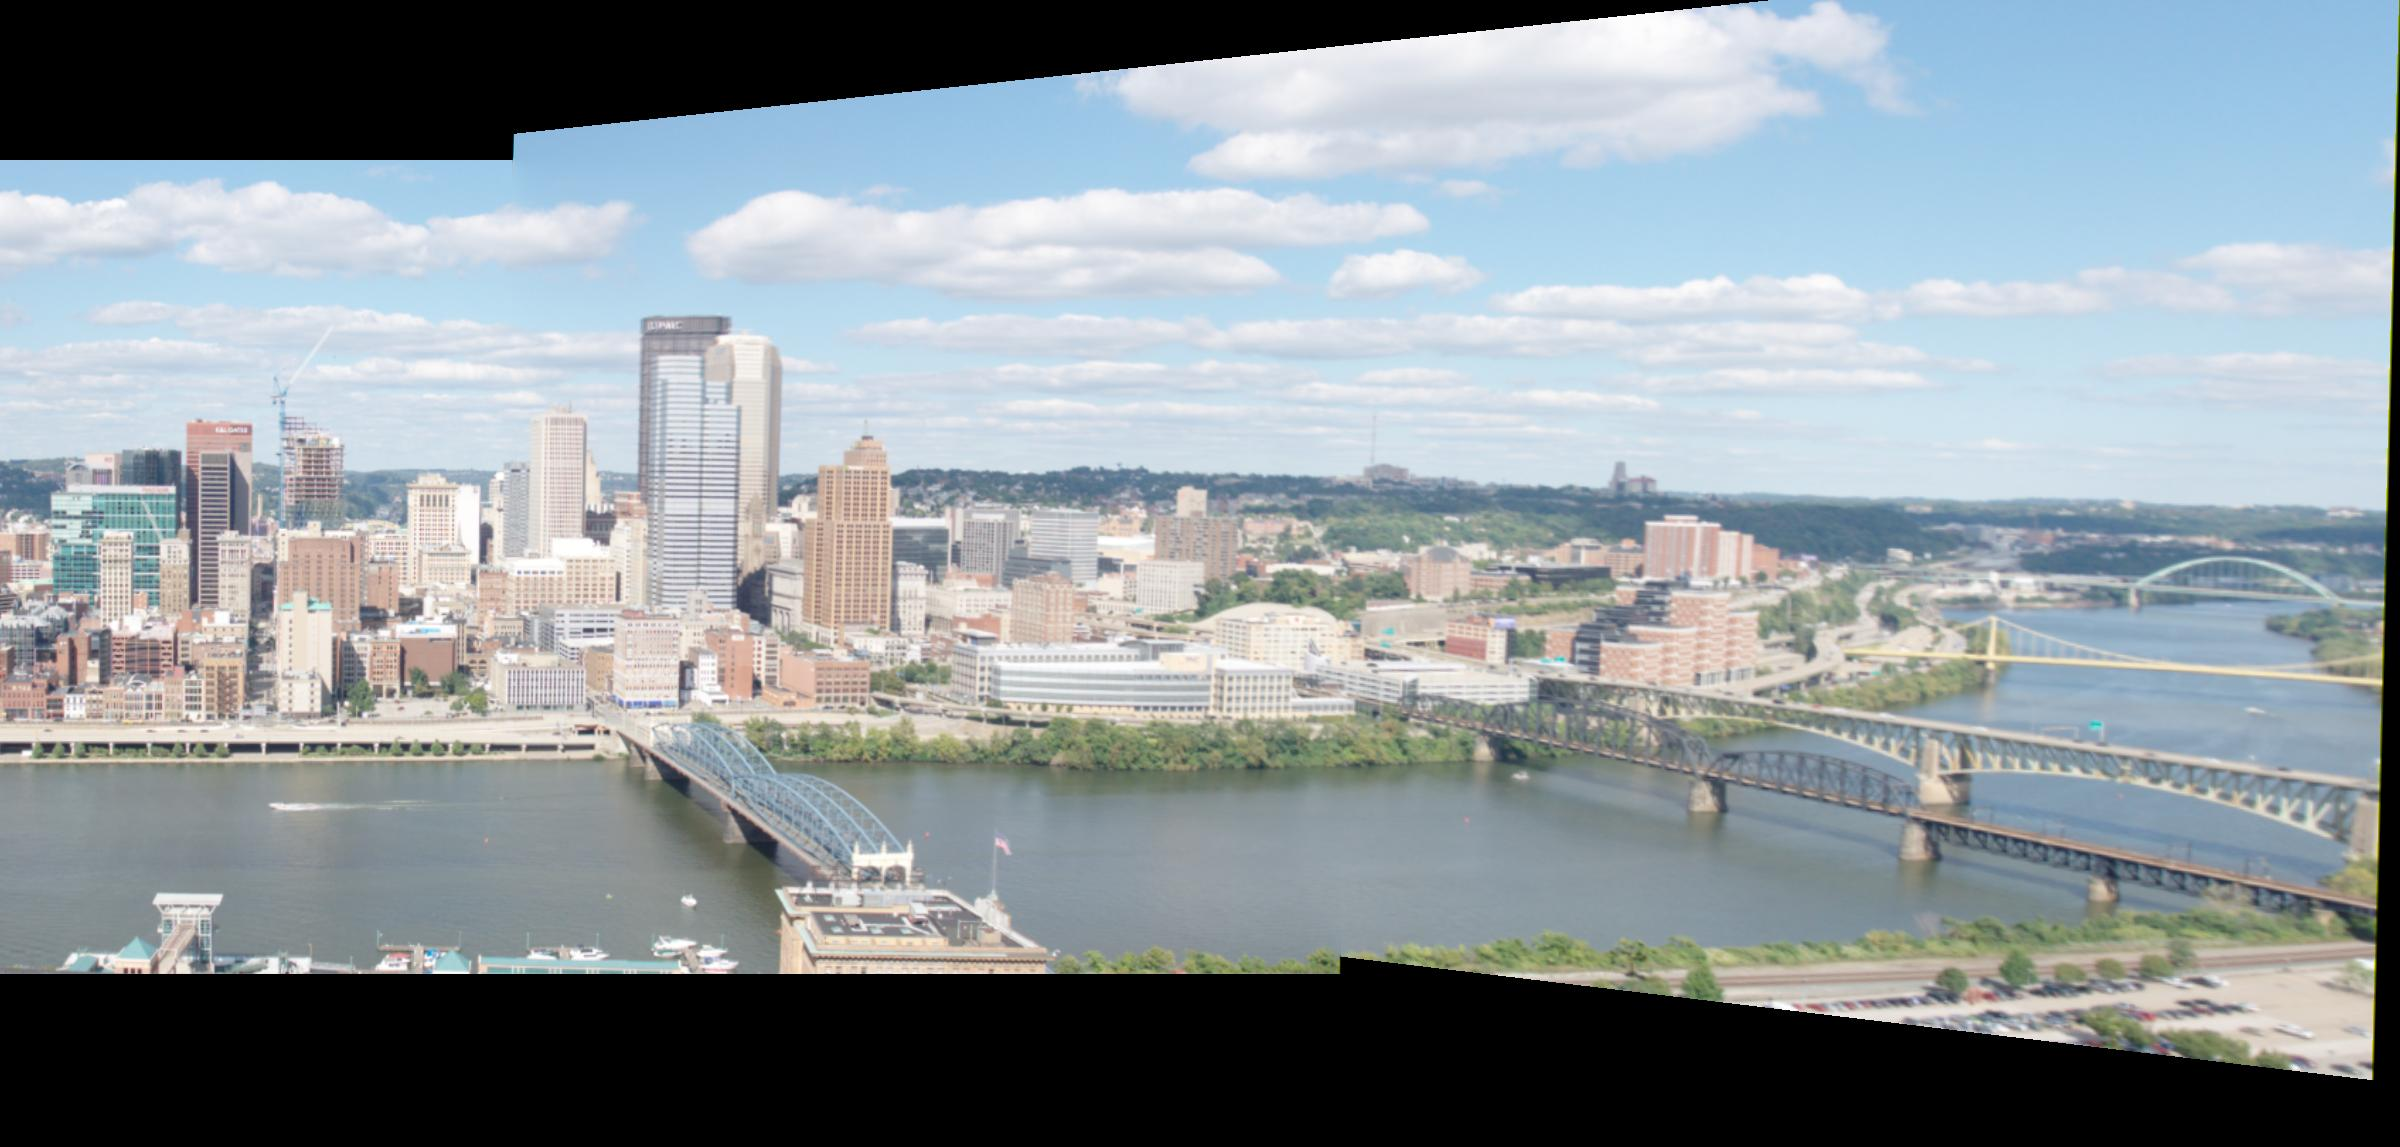
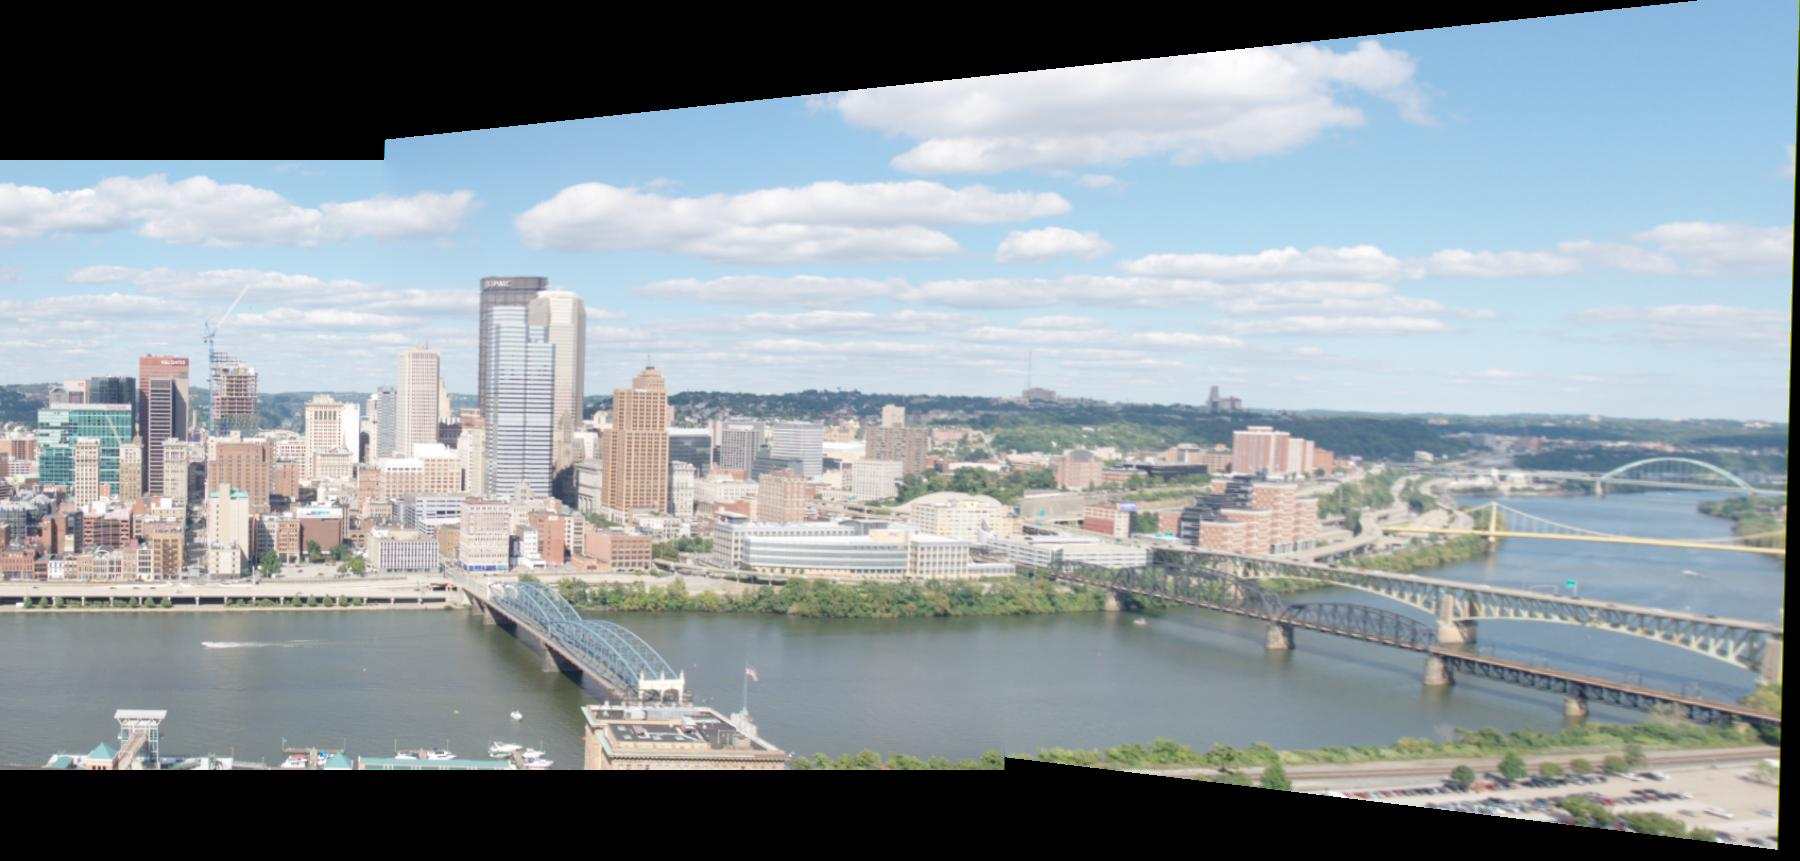
final version

diff --git a/HW2-Feature Descriptors, Homographies & RANSAC/code/imageStitching_noClip.m b/HW2-Feature Descriptors, Homographies & RANSAC/code/imageStitching_noClip.m
@@ -15,7 +15,7 @@ function [panoImg] = imageStitching_noClip(img1, img2, H2to1)
 % initialize the dimension of images 
 [H1 W1] = deal(size(img1, 1), size(img1, 2));
 [H2 W2] = deal(size(img2, 1), size(img2, 2));
-[H_out W_out] =deal(800, 2400);
+[H_out W_out] =deal(800, 1800);
 
 % define the corners of img2
 corner = [1 1 1; 1 H2 1; W2 1 1; W2 H2 1];
@@ -28,11 +28,11 @@ dummy = repmat(warp_c(3,:), 3, 1);
 warp_c = warp_c ./ dummy;
 
 % generate matrix M for scaling and translating
-translate_width = round(min(min(warp_c(1,:)), 1));
-width = round(max(max(warp_c(1,:)), W1) - translate_width);
+translate_width = min(min(warp_c(1,:)), 1);
+width = max(max(warp_c(1,:)), W1) - translate_width;
 
-translate_height = round(min(min(warp_c(2,:)), 1));
-height =round(max(max(warp_c(2,:)), H1) - translate_height);
+translate_height = min(min(warp_c(2,:)), 1);
+height = max(max(warp_c(2,:)), H1) - translate_height;
 
 scalar = W_out / width;
 out_size = [ceil(scalar * height) W_out];

diff --git a/HW2-Feature Descriptors, Homographies & RANSAC/code/computeH.m b/HW2-Feature Descriptors, Homographies & RANSAC/code/computeH.m
@@ -21,16 +21,15 @@ for i = 1:N
    A(2 * i, :) = [0, 0, 0, p2(i,:), -p1(i,2) * p2(i,:)];       % even rows of A 
 end
 
-% % compute eigen values
-% [V, D] = eig(A' * A);
-% 
-% % compute Homography matrix
-% H2to1 = reshape(V(:,1), 3, 3);
-% H2to1 = H2to1';
 
-[U, S, V] = svd(A' * A);
-H2to1 = reshape(U(:,9),3,3);
+% compute Homography matrix
+[V, D] = eig(A' * A);
+H2to1 = reshape(V(:,1), 3, 3);
 H2to1 = H2to1';
+
+% [U, S, V] = svd(A' * A);
+% H2to1 = reshape(U(:,9),3,3);
+% H2to1 = H2to1';
 
 end
 

diff --git a/HW2-Feature Descriptors, Homographies & RANSAC/code/briefLite.m b/HW2-Feature Descriptors, Homographies & RANSAC/code/briefLite.m
@@ -21,7 +21,7 @@ levels = [-1, 0, 1, 2, 3, 4];
 [locsDoG, GaussianPyramid] = DoGdetector(im, sigma0, k, levels, th_contrast, th_r)
 
 % compute BRIEF descriptors
-load('testPattern.mat');
+load('../results/testPattern.mat');
 
 [locs,desc] = computeBrief(im, GaussianPyramid, locsDoG, k, levels, compareA, compareB);
 

diff --git a/HW2-Feature Descriptors, Homographies & RANSAC/code/imageStitching.m b/HW2-Feature Descriptors, Homographies & RANSAC/code/imageStitching.m
@@ -27,7 +27,7 @@ result2 = warped2 .* mask2_warped;
 
 % visualize the warped image
 % imshow(warped2);
-imwrite(warped2, '../results/6_1.jpg');
+imwrite(warped2, '../results/q6_1.jpg');
 
 % stitch images together to produce panorams
 

diff --git a/HW2-Feature Descriptors, Homographies & RANSAC/code/makeTestPattern.m b/HW2-Feature Descriptors, Homographies & RANSAC/code/makeTestPattern.m
@@ -21,6 +21,6 @@ maxVal =  patchWidth^2;
 compareA = randi(maxVal, nbits, 1);
 compareB = randi(maxVal, nbits, 1);
 
-save('testPattern.mat', 'compareA', 'compareB');
+save('../results/testPattern.mat', 'compareA', 'compareB');
 
 end

diff --git a/HW2-Feature Descriptors, Homographies & RANSAC/code/generatePanorama.m b/HW2-Feature Descriptors, Homographies & RANSAC/code/generatePanorama.m
@@ -1,4 +1,4 @@
-function [im3] = generatePanomara(im1, im2)
+function [im3] = generatePanorama(im1, im2)
 %
 % INPUT
 % im1, im2 - a M x N x 3 matrix of RGB images

diff --git a/HW2-Feature Descriptors, Homographies & RANSAC/code/ransacH.m b/HW2-Feature Descriptors, Homographies & RANSAC/code/ransacH.m
@@ -57,5 +57,5 @@ for i = 1:nIter
 end 
 
 H2to1 = computeH(p1(:, bestinliers), p2(:, bestinliers));
-
+save('../results/q6_1.mat', 'H2to1')
 end
